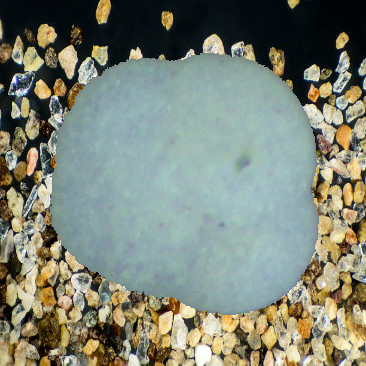
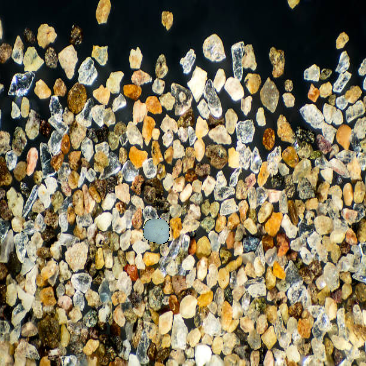
posicao randomizada em toda a imagem

diff --git a/criandoimagens.py b/criandoimagens.py
@@ -1,5 +1,6 @@
 import cv2
 import numpy as np
+import random
 
 # Carregar a imagem original e a imagem de fundo
 img = cv2.imread('/home/thiago/img_micra/MD022508_training_set/Planktic/MD022508-0-0-Planktic-0007.jpg')
@@ -11,30 +12,41 @@ gray = cv2.cvtColor(img, cv2.COLOR_BGR2GRAY)
 # Criar a máscara binária
 _, mask = cv2.threshold(gray, 128, 255, cv2.THRESH_BINARY)
 
-# Inverter a máscara para isolar o objeto (preservar o objeto)
+# Inverter a máscara para isolar o objeto
 mask_inverted = 255 - mask
 
-# Redimensionar a imagem de fundo para ser do mesmo tamanho que a original
+# Redimensionar a imagem de fundo para o tamanho da imagem original
 fundo_redimensionado = cv2.resize(fundo, (img.shape[1], img.shape[0]))
 
-# Isolar o objeto da imagem original usando a máscara invertida
+# Isolar o objeto da imagem original usando a máscara
 img_cortada = cv2.bitwise_and(img, img, mask=mask)
 
-# Aumentar o contraste do objeto recortado
-alpha = 1.0  # Contraste (1.0 = sem ajuste)
-beta = 0    # Brilho (0 = sem ajuste)
-img_cortada = cv2.convertScaleAbs(img_cortada, alpha=alpha, beta=beta)
+# Redimensionar a imagem cortada e a máscara
+escala = 0.1  # Ajustar o tamanho conforme necessário
+largura = int(img_cortada.shape[1] * escala)
+altura = int(img_cortada.shape[0] * escala)
+dimensao = (largura, altura)
+img_cortada_redimensionada = cv2.resize(img_cortada, dimensao)
+mask_resized = cv2.resize(mask, dimensao, interpolation=cv2.INTER_NEAREST)
+mask_inverted_resized = cv2.resize(mask_inverted, dimensao, interpolation=cv2.INTER_NEAREST)
 
-# Isolar o fundo onde o objeto será colado (máscara invertida)
-fundo_mascarado = cv2.bitwise_and(fundo_redimensionado, fundo_redimensionado, mask=mask_inverted)
+# Garantir que a máscara redimensionada tenha o mesmo número de canais que a imagem
+mask_resized_bgr = cv2.cvtColor(mask_resized, cv2.COLOR_GRAY2BGR)
+mask_inverted_resized_bgr = cv2.cvtColor(mask_inverted_resized, cv2.COLOR_GRAY2BGR)
 
-# Combinar o objeto isolado com o fundo modificado
-resultado_final = cv2.add(fundo_mascarado, img_cortada)
+# Definir a posição para colar a imagem cortada no fundo
+x_offset = random.randint(0, 366)
+y_offset = random.randint(0, 366)
+#x_offset, y_offset = 50, 50  # Ajustar conforme necessário
 
-# Salvar o resultado final
-cv2.imwrite('resultado_final.png', resultado_final)
+# Copiar a imagem cortada redimensionada para o fundo
+fundo_redimensionado[y_offset:y_offset + altura, x_offset:x_offset + largura] = cv2.bitwise_and(fundo_redimensionado[y_offset:y_offset + altura, x_offset:x_offset + largura], mask_inverted_resized_bgr)
+fundo_redimensionado[y_offset:y_offset + altura, x_offset:x_offset + largura] += img_cortada_redimensionada
+
+# Salvar a imagem
+cv2.imwrite('resultado_final.png', fundo_redimensionado)
 
 # Exibir o resultado final
-cv2.imshow("Resultado Final", resultado_final)
+cv2.imshow("Resultado Final", fundo_redimensionado)
 cv2.waitKey(0)
 cv2.destroyAllWindows()
